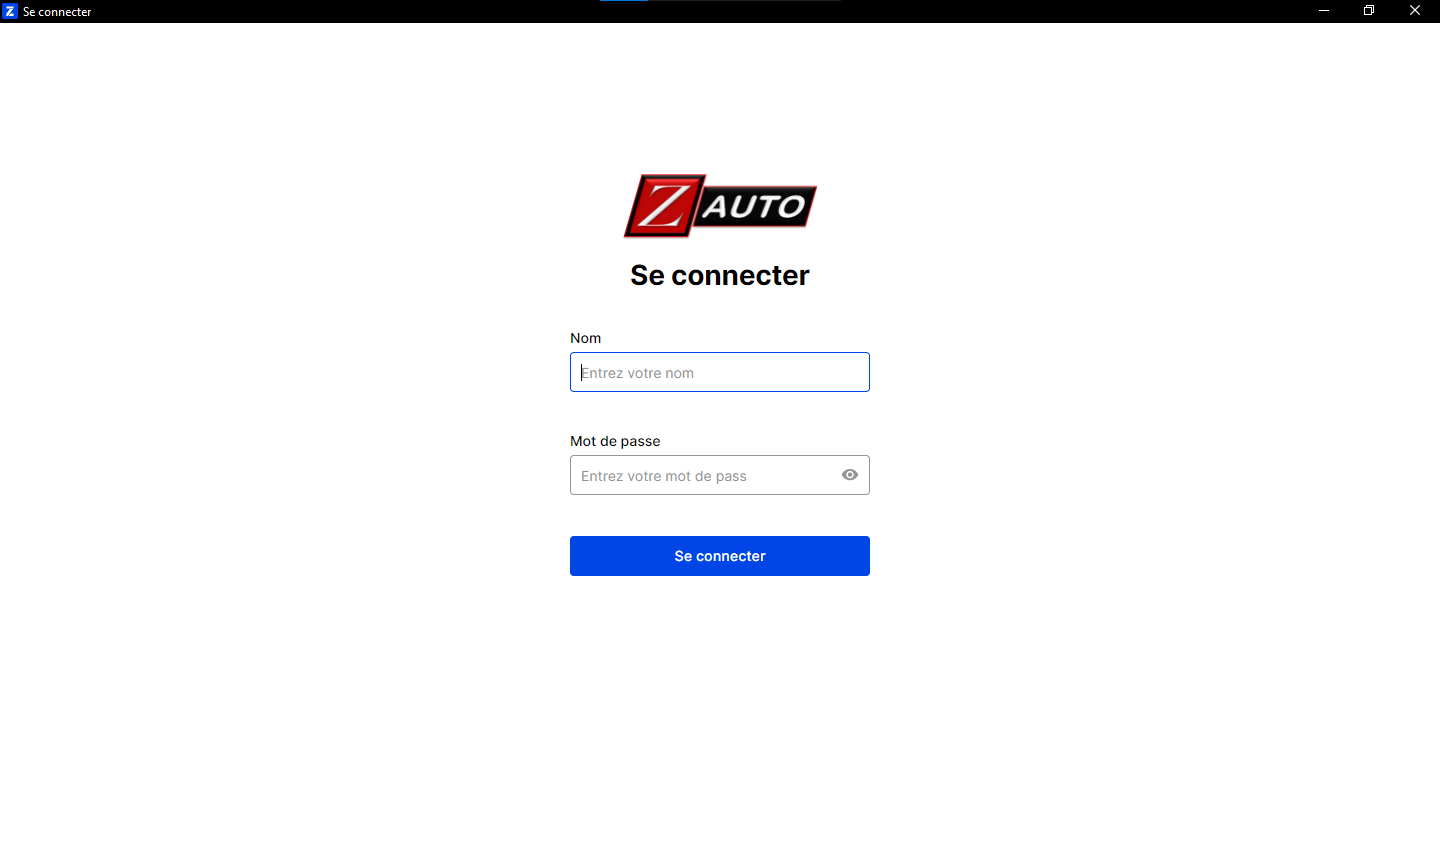
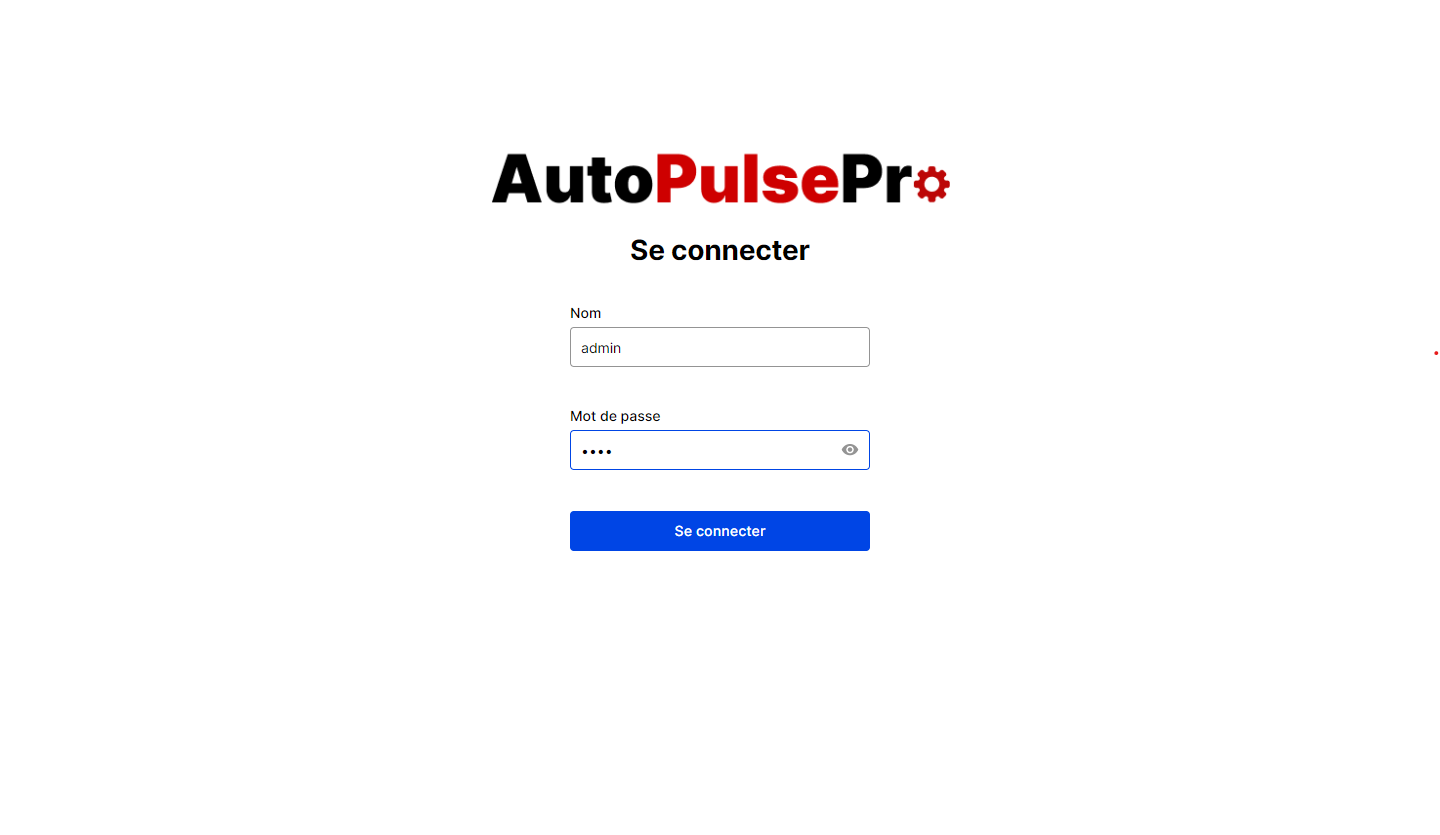
First try at version 2.0

diff --git a/renderer/pages/dashboard/cars.tsx b/renderer/pages/dashboard/cars.tsx
@@ -55,17 +55,17 @@ const CarsStats = () => {
             <StatTicket
               title={`Intérêt total (${sold_cars_count} voitures)`}
               icon="car"
-              value={formatFiatValue(total_profit, "DZD")}
+              value={formatFiatValue(total_profit, "DZD", true)}
             />
             <StatTicket
               title={`Intérêts negative (${total_lost_count} voitures)`}
               icon="car"
-              value={formatFiatValue(total_negative_profit, "DZD")}
+              value={formatFiatValue(total_negative_profit, "DZD", true)}
             />
             <StatTicket
               title={`Intérêts positive (${total_profited_count} voitures)`}
               icon="car"
-              value={formatFiatValue(total_positive_profit, "DZD")}
+              value={formatFiatValue(total_positive_profit, "DZD", true)}
             />
           </>
         );

diff --git a/renderer/page-components/clients/ClientPrinted/index.tsx b/renderer/page-components/clients/ClientPrinted/index.tsx
@@ -95,7 +95,7 @@ const ClientPrinted = forwardRef(({ id, type, filter }: ClientPrintedProps, ref:
     <S.DocumentWrapper ref={ref} id="content">
       <S.DocumentHeader>
         <S.DocumentLogo>
-          <Image src="/images/zauto-logo.png" alt="zauto logo" width={200} height={70} />
+          <Image src="/images/companies/zauto-logo.png" alt="zauto logo" width={200} height={70} />
         </S.DocumentLogo>
         <S.CompanyDetails>
           <LabelText as="p">{process.env.NEXT_PUBLIC_EMAIL}</LabelText>

diff --git a/renderer/components/Meta/Meta.tsx b/renderer/components/Meta/Meta.tsx
@@ -4,13 +4,10 @@ interface MetaProps {
   title?: string;
 }
 
-const Meta = ({ title = "ZAUTO Manager" }: MetaProps) => {
+const Meta = ({ title = "AutoPulsePro" }: MetaProps) => {
   return (
     <Head>
-      <meta
-        httpEquiv="Content-Security-Policy"
-        content="upgrade-insecure-requests"
-      />
+      <meta httpEquiv="Content-Security-Policy" content="upgrade-insecure-requests" />
       <title>{title}</title>
     </Head>
   );

diff --git a/main/background.ts b/main/background.ts
@@ -1,11 +1,14 @@
 import { Menu, app, dialog, globalShortcut } from "electron";
 import serve from "electron-serve";
 import contextMenu from "electron-context-menu";
+// import { machineIdSync } from "node-machine-id";
 
 import { createWindow } from "./helpers";
 import "../backend/server";
 
 const isProd: boolean = process.env.NODE_ENV === "production";
+
+// const  ip = machineIdSync(true);
 
 if (isProd) {
   serve({ directory: "app" });

diff --git a/renderer/pages/login/index.tsx b/renderer/pages/login/index.tsx
@@ -12,7 +12,7 @@ const LoginPage = () => {
       <Meta title="Se connecter" />
       <S.Main>
         <S.FormHeading>
-          <Image src="/images/logo.png" alt="zauto logo" width={0} height={80} style={{ width: "auto" }} />
+          <Image src="/images/logo.png" alt="autopulsepro logo" width={0} height={80} style={{ width: "auto" }} />
           <Heading3>Se connecter</Heading3>
         </S.FormHeading>
         <LoginForm />

diff --git a/renderer/layout/Navbar/index.tsx b/renderer/layout/Navbar/index.tsx
@@ -72,7 +72,7 @@ const Navbar = () => {
     <S.NavbarWrapper $short={short}>
       <S.LogoWrapper onClick={() => setShort(!short)}>
         <Image
-          src={`${short ? "/images/zauto-short.png" : "/images/zauto-logo.png"}`}
+          src={`${short ? "/images/companies/zauto-short.png" : "/images/companies/zauto-logo.png"}`}
           alt="zauto logo"
           width={short ? 60 : 200}
           height={short ? 50 : 70}
